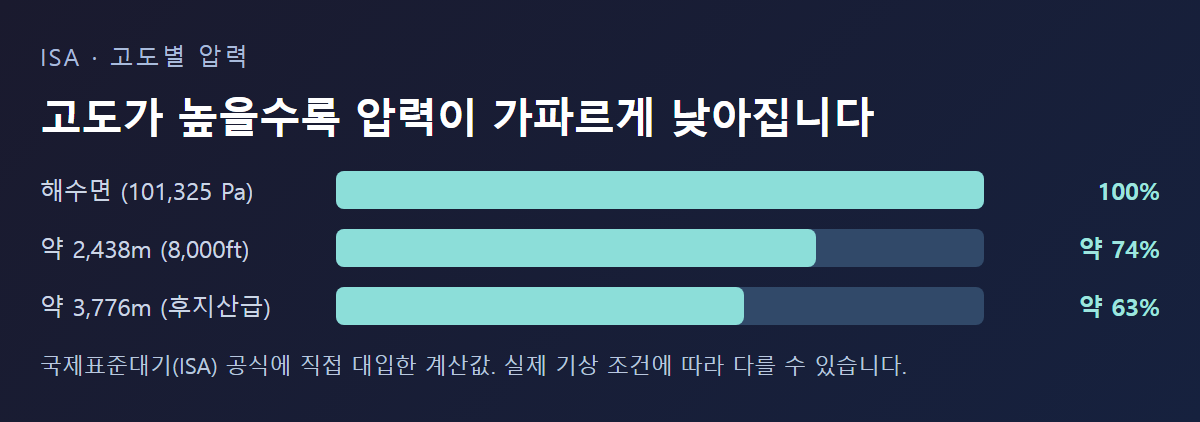
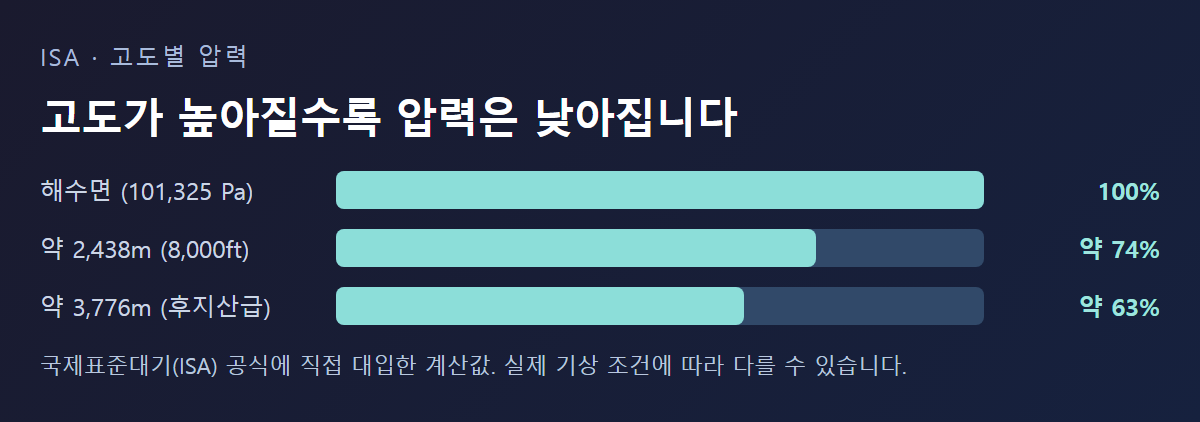
blog: W44 큐 예약 승인(1026·1029) + 1026 압력 감소 설명 오류 수정·포장 밀봉 검사 문단 추가

Changed region(s): [[0.185, 0.2156, 0.74, 0.3389]]

diff --git a/블로그/output/기술블로그/2026-10/1026-고도-과자봉지/gen_images.py b/블로그/output/기술블로그/2026-10/1026-고도-과자봉지/gen_images.py
@@ -54,7 +54,7 @@ DIFF = html("""
 
 ALTITUDE = html("""
 <div id="card"><div class="eyebrow">ISA · 고도별 압력</div>
-<h2>고도가 높을수록 압력이 가파르게 낮아집니다</h2>
+<h2>고도가 높아질수록 압력은 낮아집니다</h2>
 <div class="row"><span class="lab">해수면 (101,325 Pa)</span><div class="track"><div class="bar" style="width:100%"></div></div><span class="val">100%</span></div>
 <div class="row"><span class="lab">약 2,438m (8,000ft)</span><div class="track"><div class="bar" style="width:74%"></div></div><span class="val">약 74%</span></div>
 <div class="row"><span class="lab">약 3,776m (후지산급)</span><div class="track"><div class="bar" style="width:63%"></div></div><span class="val">약 63%</span></div>

diff --git a/블로그/output/기술블로그/2026-10/1026-고도-과자봉지/final.md b/블로그/output/기술블로그/2026-10/1026-고도-과자봉지/final.md
@@ -32,15 +32,19 @@ category: 기술문의
 
 여객기는 고도 수 km에서 10km 안팎을 날지만, 객실 내부는 사람이 숨쉴 수 있는 수준으로 별도로 압력을 유지(여압)한다. 미국 연방항공청(FAA) 규정은 정상 운항 조건에서 객실 압력고도가 8,000 ft를 넘지 않도록 요구한다. 즉 기내는 해수면과 같은 압력이 아니라 "고도 8,000 ft에 있는 것과 비슷한" 낮은 압력 상태로 유지된다. 그래서 땅에서는 멀쩡하던 과자 봉지도 비행기 안에서는 눈에 띄게 부풀어 오른다. 이는 규정상의 상한선이며, 실제로는 기종과 비행 상황에 따라 이보다 더 높은 압력(더 낮은 압력고도)으로 유지되는 경우도 있다.
 
-## 왜 고도가 높아질수록 압력이 더 가파르게 떨어질까
+## 높이 올라갈수록 압력이 줄어드는 폭은 작아진다
 
-ISA 공식은 직선이 아니라 지수함수 형태다. 그래서 저고도에서 고도가 조금 올라갈 때 줄어드는 압력과, 고고도에서 같은 만큼 고도가 올라갈 때 줄어드는 압력은 서로 다르다. 예를 들어 해수면 근처에서 100m를 오를 때 줄어드는 압력의 절대량은, 이미 압력이 낮아진 고산지대에서 같은 100m를 오를 때 줄어드는 절대량보다 크다. 즉 "고도 100m마다 몇 % 감소"처럼 일정한 비율로 단순화하면 실제 값과 오차가 커진다. 이번 글의 계산도 특정 고도 각각에 대해 공식을 새로 대입한 값이지, 저고도의 비율을 그대로 늘린 값이 아니다.
+ISA 공식은 직선이 아니라 곡선이다. 높은 곳일수록 공기가 이미 옅어져 있어서, 같은 100m를 올라가도 줄어드는 압력의 양이 점점 작아진다. 예를 들어 해수면 근처에서 100m를 오를 때 줄어드는 압력은, 이미 압력이 낮아진 고산지대에서 같은 100m를 오를 때 줄어드는 압력보다 크다. 그래서 "고도 100m마다 몇 Pa씩 감소"처럼 일정한 양으로 단순화하면 높은 곳으로 갈수록 실제 값과 오차가 커진다. 이번 글의 계산도 특정 고도 각각에 대해 공식을 새로 대입한 값이지, 저고도의 비율을 그대로 늘린 값이 아니다.
 
 ## 밀폐 용기라면 다 같은 원리가 적용된다
 
 과자 봉지뿐 아니라 밀폐된 플라스틱 용기, 튜브형 화장품, 밀봉된 알약 포장(블리스터팩), 생수병 등도 같은 원리로 고도가 높아지면 부풀거나 뚜껑이 살짝 들뜨는 현상을 보일 수 있다. 반대로 고도가 낮은 곳(예: 해수면보다 낮은 지역이나 지하 깊은 곳)으로 이동하면 바깥 압력이 오히려 높아져 봉지가 눌리는 방향으로 작용한다. 방향은 반대이지만 원리는 동일하게 "포장 당시의 압력과 현재 위치의 압력 차이"로 설명되며, 이 차이가 클수록 변형도 커진다.
 
 비행기를 자주 타는 사람이라면 이륙 직후와 순항 고도에 도달한 뒤 봉지 모양이 달라지는 것도 눈치챌 수 있다. 이륙 후 객실이 여압되는 동안에는 압력이 서서히 낮아지다가, 순항 고도에 도달하면 그 지점의 객실 압력에서 대체로 안정된다. 착륙을 준비하며 다시 압력을 높이는 동안에는 반대로 봉지가 원래 모양으로 서서히 돌아가는 것을 볼 수 있다. 이 변화를 유심히 지켜보면 비행 단계별로 객실 압력이 어떻게 바뀌는지 체감할 수 있다.
+
+## 같은 원리로 포장 밀봉을 검사한다
+
+공장에서는 이 현상을 거꾸로 이용해 포장이 잘 밀봉됐는지 확인한다. 포장품을 밀폐 챔버에 넣고 진공펌프로 챔버 안 압력을 낮추면, 산이나 비행기에서처럼 봉지가 부푼다. 밀봉이 잘 됐다면 부푼 모양이 유지되고, 새는 곳이 있으면 봉지가 꺼지거나 물속에서는 새는 자리에서 기포가 올라온다. 산 정상에 가지 않아도 펌프로 '높은 고도'를 만들어 시험하는 셈이다.
 
 ## 등산·고지대 여행에서도 마찬가지다
 

diff --git a/블로그/output/기술블로그/2026-10/1026-고도-과자봉지/google.md b/블로그/output/기술블로그/2026-10/1026-고도-과자봉지/google.md
@@ -32,15 +32,19 @@ category: 기술문의
 
 여객기는 고도 수 km에서 10km 안팎을 날지만, 객실 내부는 사람이 숨쉴 수 있는 수준으로 별도로 압력을 유지(여압)한다. 미국 연방항공청(FAA) 규정은 정상 운항 조건에서 객실 압력고도가 8,000 ft를 넘지 않도록 요구한다. 즉 기내는 해수면과 같은 압력이 아니라 "고도 8,000 ft에 있는 것과 비슷한" 낮은 압력 상태로 유지된다. 그래서 땅에서는 멀쩡하던 과자 봉지도 비행기 안에서는 눈에 띄게 부풀어 오른다. 이는 규정상의 상한선이며, 실제로는 기종과 비행 상황에 따라 이보다 더 높은 압력(더 낮은 압력고도)으로 유지되는 경우도 있다.
 
-## 왜 고도가 높아질수록 압력이 더 가파르게 떨어질까
+## 높이 올라갈수록 압력이 줄어드는 폭은 작아진다
 
-ISA 공식은 직선이 아니라 지수함수 형태다. 그래서 저고도에서 고도가 조금 올라갈 때 줄어드는 압력과, 고고도에서 같은 만큼 고도가 올라갈 때 줄어드는 압력은 서로 다르다. 예를 들어 해수면 근처에서 100m를 오를 때 줄어드는 압력의 절대량은, 이미 압력이 낮아진 고산지대에서 같은 100m를 오를 때 줄어드는 절대량보다 크다. 즉 "고도 100m마다 몇 % 감소"처럼 일정한 비율로 단순화하면 실제 값과 오차가 커진다. 이번 글의 계산도 특정 고도 각각에 대해 공식을 새로 대입한 값이지, 저고도의 비율을 그대로 늘린 값이 아니다.
+ISA 공식은 직선이 아니라 곡선이다. 높은 곳일수록 공기가 이미 옅어져 있어서, 같은 100m를 올라가도 줄어드는 압력의 양이 점점 작아진다. 예를 들어 해수면 근처에서 100m를 오를 때 줄어드는 압력은, 이미 압력이 낮아진 고산지대에서 같은 100m를 오를 때 줄어드는 압력보다 크다. 그래서 "고도 100m마다 몇 Pa씩 감소"처럼 일정한 양으로 단순화하면 높은 곳으로 갈수록 실제 값과 오차가 커진다. 이번 글의 계산도 특정 고도 각각에 대해 공식을 새로 대입한 값이지, 저고도의 비율을 그대로 늘린 값이 아니다.
 
 ## 밀폐 용기라면 다 같은 원리가 적용된다
 
 과자 봉지뿐 아니라 밀폐된 플라스틱 용기, 튜브형 화장품, 밀봉된 알약 포장(블리스터팩), 생수병 등도 같은 원리로 고도가 높아지면 부풀거나 뚜껑이 살짝 들뜨는 현상을 보일 수 있다. 반대로 고도가 낮은 곳(예: 해수면보다 낮은 지역이나 지하 깊은 곳)으로 이동하면 바깥 압력이 오히려 높아져 봉지가 눌리는 방향으로 작용한다. 방향은 반대이지만 원리는 동일하게 "포장 당시의 압력과 현재 위치의 압력 차이"로 설명되며, 이 차이가 클수록 변형도 커진다.
 
 비행기를 자주 타는 사람이라면 이륙 직후와 순항 고도에 도달한 뒤 봉지 모양이 달라지는 것도 눈치챌 수 있다. 이륙 후 객실이 여압되는 동안에는 압력이 서서히 낮아지다가, 순항 고도에 도달하면 그 지점의 객실 압력에서 대체로 안정된다. 착륙을 준비하며 다시 압력을 높이는 동안에는 반대로 봉지가 원래 모양으로 서서히 돌아가는 것을 볼 수 있다. 이 변화를 유심히 지켜보면 비행 단계별로 객실 압력이 어떻게 바뀌는지 체감할 수 있다.
+
+## 같은 원리로 포장 밀봉을 검사한다
+
+공장에서는 이 현상을 거꾸로 이용해 포장이 잘 밀봉됐는지 확인한다. 포장품을 밀폐 챔버에 넣고 진공펌프로 챔버 안 압력을 낮추면, 산이나 비행기에서처럼 봉지가 부푼다. 밀봉이 잘 됐다면 부푼 모양이 유지되고, 새는 곳이 있으면 봉지가 꺼지거나 물속에서는 새는 자리에서 기포가 올라온다. 산 정상에 가지 않아도 펌프로 '높은 고도'를 만들어 시험하는 셈이다.
 
 ## 등산·고지대 여행에서도 마찬가지다
 

diff --git a/블로그/output/기술블로그/2026-10/1026-고도-과자봉지/naver.md b/블로그/output/기술블로그/2026-10/1026-고도-과자봉지/naver.md
@@ -24,15 +24,19 @@
 
 [IMAGE: 압력이 낮아진 만큼 부피가 늘어나는 관계]
 
-## 왜 고도가 높아질수록 압력이 더 가파르게 떨어질까요?
+## 높이 올라갈수록 압력이 줄어드는 폭은 작아집니다
 
-ISA 공식은 직선이 아니라 지수함수 형태입니다. 그래서 저고도에서 고도가 조금 올라갈 때 줄어드는 압력과, 고고도에서 같은 만큼 고도가 올라갈 때 줄어드는 압력은 서로 다릅니다. 예를 들어 해수면 근처에서 100m를 오를 때 줄어드는 압력의 절대량은, 이미 압력이 낮아진 고산지대에서 같은 100m를 오를 때 줄어드는 절대량보다 큽니다. 즉 "고도 100m마다 몇 % 감소"처럼 일정한 비율로 단순화하면 실제 값과 오차가 커집니다.
+ISA 공식은 직선이 아니라 곡선입니다. 높은 곳일수록 공기가 이미 옅어져 있어서, 같은 100m를 올라가도 줄어드는 압력의 양이 점점 작아집니다. 예를 들어 해수면 근처에서 100m를 오를 때 줄어드는 압력은, 이미 압력이 낮아진 고산지대에서 같은 100m를 오를 때 줄어드는 압력보다 큽니다. 그래서 "고도 100m마다 몇 Pa씩 감소"처럼 일정한 양으로 단순화하면 높은 곳으로 갈수록 실제 값과 오차가 커집니다.
 
 ## 비행기 안에서도 봉지가 부푸는 이유
 
 여객기는 고도 수 km에서 10km 안팎을 날지만, 객실 내부는 사람이 숨쉴 수 있는 수준으로 별도로 압력을 유지(여압)합니다. 미국 연방항공청(FAA) 규정은 정상 운항 조건에서 객실 압력고도가 8,000 ft를 넘지 않도록 요구합니다. 즉 기내는 해수면과 같은 압력이 아니라 "고도 8,000 ft에 있는 것과 비슷한" 낮은 압력 상태로 유지됩니다. 그래서 땅에서는 멀쩡하던 과자 봉지도 비행기 안에서는 눈에 띄게 부풀어 오릅니다.
 
 비행기를 자주 타신다면 이륙 직후와 순항 고도에 도달한 뒤 봉지 모양이 달라지는 것도 눈치채실 수 있습니다. 이륙 후 객실이 여압되는 동안에는 압력이 서서히 낮아지다가, 순항 고도에 도달하면 그 지점의 객실 압력에서 대체로 안정됩니다. 착륙을 준비하며 다시 압력을 높이는 동안에는 반대로 봉지가 원래 모양으로 서서히 돌아가는 것을 볼 수 있습니다.
+
+## 공장에서는 이 원리로 포장 밀봉을 확인합니다
+
+이 현상은 공장에서 거꾸로 쓰이기도 합니다. 포장품을 밀폐 챔버에 넣고 진공펌프로 챔버 안 압력을 낮추면, 산이나 비행기에서처럼 봉지가 부풀어 오릅니다. 밀봉이 잘 된 포장은 부푼 모양을 그대로 유지하고, 새는 곳이 있으면 봉지가 꺼지거나 물속에서 새는 자리에 기포가 올라옵니다. 산 정상까지 가지 않고도 펌프로 '높은 고도'를 만들어 시험하는 것입니다.
 
 ## 등산·고지대 여행에서도 마찬가지입니다
 

diff --git a/docs/astra_work_log.md b/docs/astra_work_log.md
@@ -1,5 +1,13 @@
 # Astra 작업 기록
 
+## 2026-10-22 — (클로드) W44 블로그 2편 예약 승인 (1026·1029)
+
+- 점검: 두 편 check_quality·쇼츠 검사 통과, 공개 파일 타사 이름 0, 사진 MD5 중복 0. 1029 출처 Edwards 2곳. 1026 ISA 계산(74%·63%·1.35·1.6배) 직접 재계산 일치.
+- 1026 수정(대표님 "고치자"): "고도가 높을수록 압력이 더 가파르게 떨어진다"는 반대 설명(소제목·문단·FAQ·그림 2 제목) → "줄어드는 폭은 작아진다"로, 펌프 연결 문단 "같은 원리로 포장 밀봉을 검사한다"(진공 챔버+펌프, 제품명·수치 없음) 추가. final=google, naver는 문장 달리. 그림은 사진2만 바뀜(나머지 MD5 동일).
+- 대표님 "ok" → upload-queue.json W44(day1 10/26, day2 10/29, approved=true), W43 큐는 scheduler-backups/upload-queue-2026-W43.json. dry-run 둘 다 "발행일 불일치"로 정상 건너뜀, SmartechBlog_Day1_Monday·Day2_Thursday 다음 실행 10/26·10/29 09:00 Ready.
+- 컴퓨터 꺼짐 안내: StartWhenAvailable라 그날 늦게 켜면 자동 실행, 다음 날이면 건너뜀 → 대표님 "글 올려줘"로 수동 발행.
+- 다음 확인: 10/26 9시 후 /blog 새 글·숏츠·X 대기글.
+
 ## 2026-10-22 — (클로드) 로컬 코드리뷰 690be72..210bf2d 반영
 
 - /code-review medium 8커밋(코드 3: 2c6fcd0·697f0af·47e749c). 지적 9건 직접 대조 → 반영 4건(대표님 "고치자"): ① articleBody에 구분선 `---`·`##붙은제목` 남던 것 제거(app/blog/[id]/page.tsx) ② 주간 점검: 사이트맵 못 읽은 주는 개수 비교·기준값 저장 안 함 ③ state.json 깨져도 점검 계속 ④ 파트번호 무작위 표본에서 고정 2개 제외, 사양 0개 대조면 확인필요로.

diff --git a/docs/memory/current-state.md b/docs/memory/current-state.md
@@ -7,7 +7,7 @@
 
 ## 2026-10-22 블로그 1022-진공오븐-진공도확인 발행 (id=119)
 
-- 대표님 "지금 발행" → 07:22 발행, 라이브 200·사진 4장 확인. 숏츠 10/22 12:00 예약, X 대기글 PENDING. W43 큐 끝 — 다음 W44(10/26·10/29) 큐 등록·원고 확인 필요. 대표님: 네이버 게시·X 승인, 네이버 수리 글 1020(지남)·1023.
+- 대표님 "지금 발행" → 07:22 발행, 라이브 200·사진 4장 확인. 숏츠 10/22 12:00 예약, X 대기글 PENDING. W44 큐 등록·예약 승인 완료(10/22): 10/26 `1026-고도-과자봉지`(오류 수정·포장 밀봉 검사 문단 추가), 10/29 `1029-태양광-오일로터리`. 다음 정기 글은 W45(11/2·11/5) 후보 5개 제시부터. 대표님: 네이버 게시·X 승인, 네이버 수리 글 1020(지남)·1023.
 
 ## 2026-10-21 외부 심층 진단 대응 — 오류 수정 완료(0208a2f), 구조 3건 대기
 
